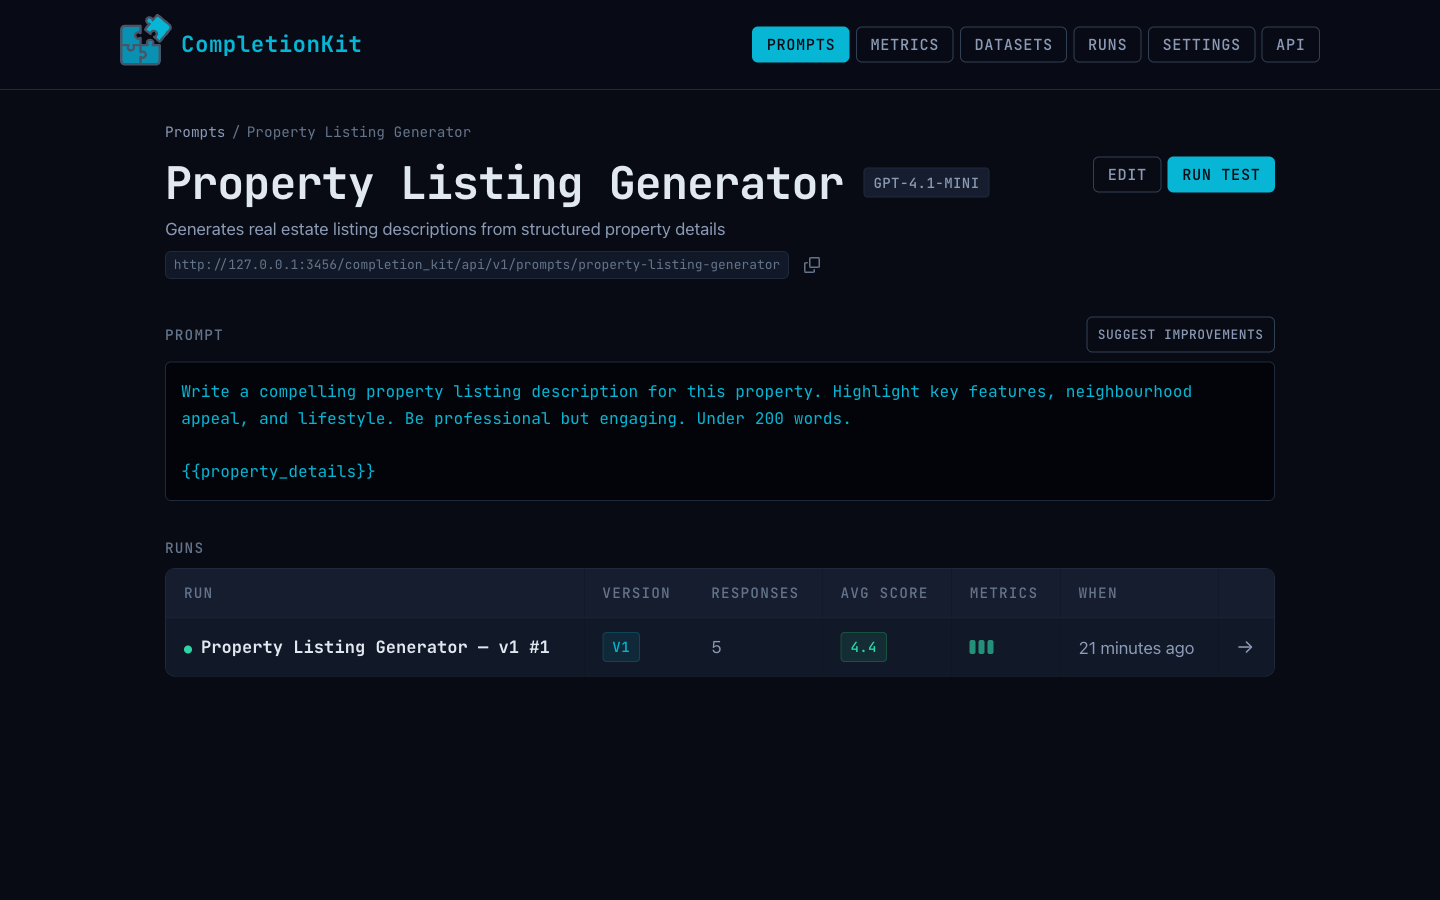
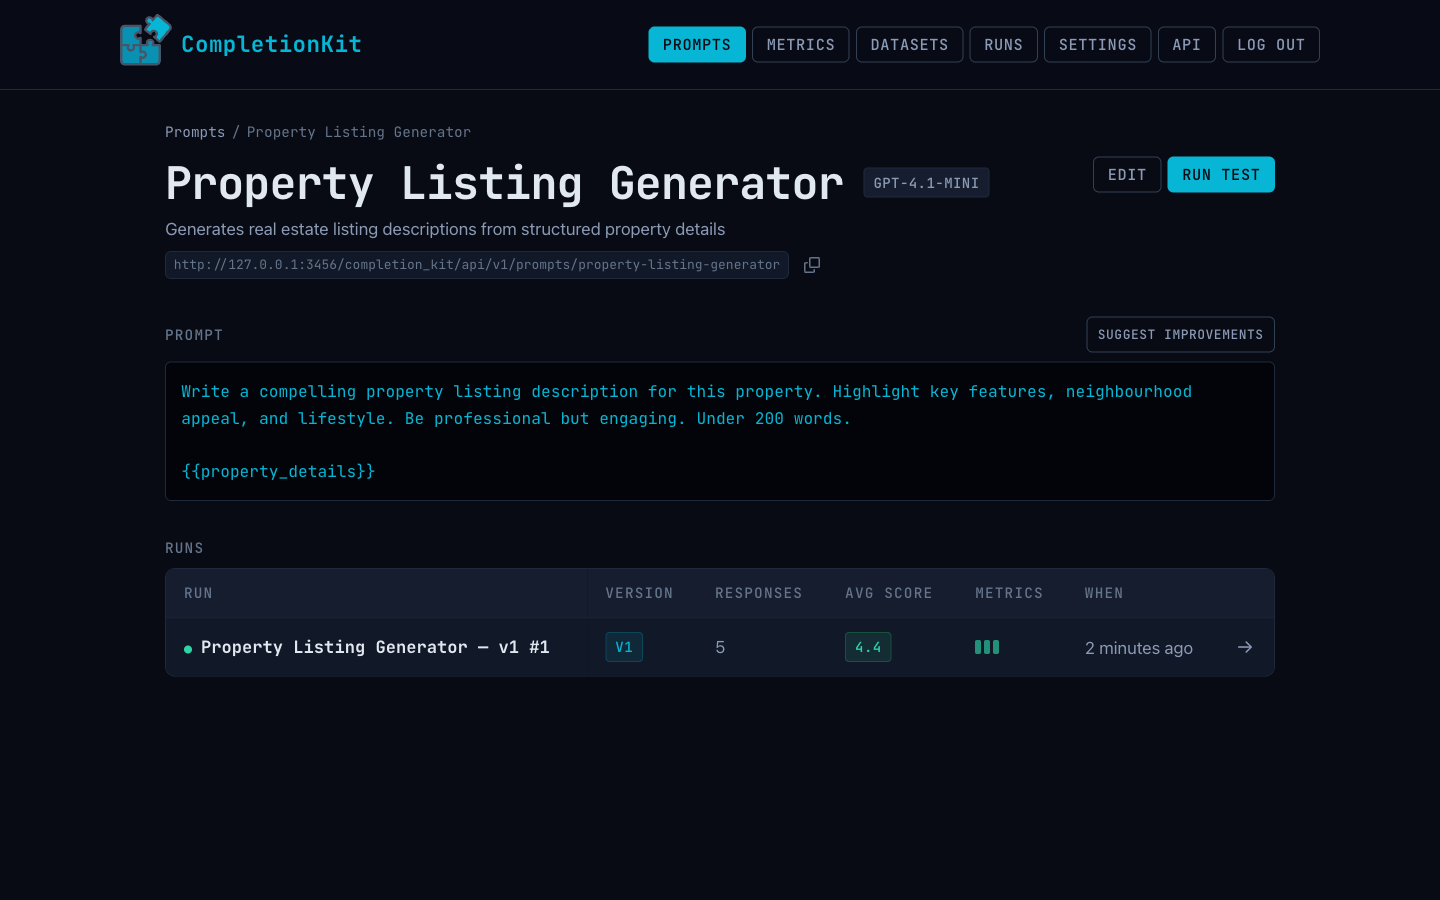
richer seed data: 3 prompts in same domain, retake all screenshots

diff --git a/standalone/db/seeds.rb b/standalone/db/seeds.rb
@@ -164,4 +164,188 @@ responses_data.each do |rd|
   end
 end
 
+conciseness = CompletionKit::Metric.find_or_create_by!(name: "Conciseness") do |m|
+  m.instruction = "Is the summary the right length? It should be exactly 2 sentences and convey the essential property information without filler."
+  m.evaluation_steps = [
+    "Count the sentences. Exactly 2 is ideal.",
+    "Check that every word earns its place. No filler, no padding.",
+    "Verify the summary would work as a search-result snippet."
+  ]
+  m.rubric_bands = [
+    { "stars" => 5, "description" => "Exactly 2 sentences. Every word earns its place. Works perfectly as a search snippet." },
+    { "stars" => 3, "description" => "Close to 2 sentences but slightly too long or includes filler words that add nothing." },
+    { "stars" => 1, "description" => "Way too long, way too short, or reads like a full listing crammed into two lines." }
+  ]
+end
+
+completeness = CompletionKit::Metric.find_or_create_by!(name: "Completeness") do |m|
+  m.instruction = "Does the summary capture what a buyer scanning search results would most want to know? Key selling point, location, and property type at minimum."
+  m.evaluation_steps = [
+    "Check for property type and bedroom count",
+    "Check for location or suburb name",
+    "Check for the single strongest selling point"
+  ]
+  m.rubric_bands = [
+    { "stars" => 5, "description" => "Covers property type, location, and the standout feature. A buyer knows immediately whether to click through." },
+    { "stars" => 3, "description" => "Covers basics but misses the hook. You know what it is but not why you'd care." },
+    { "stars" => 1, "description" => "Missing critical information. You can't tell what kind of property it is or where." }
+  ]
+end
+
+local_relevance = CompletionKit::Metric.find_or_create_by!(name: "Local Relevance") do |m|
+  m.instruction = "Does the neighbourhood description reflect the specific character of this area? It should feel like the writer has actually been there, not like a generic suburb template."
+  m.evaluation_steps = [
+    "Does it name specific streets, landmarks, or local institutions?",
+    "Could this description apply to any suburb, or is it clearly about this one?",
+    "Does it match the known character of the area?"
+  ]
+  m.rubric_bands = [
+    { "stars" => 5, "description" => "Clearly about this specific neighbourhood. Names local landmarks or captures the area's known character accurately." },
+    { "stars" => 3, "description" => "Broadly correct but could describe several similar suburbs. Generic 'great cafes and parks' territory." },
+    { "stars" => 1, "description" => "Wrong vibe entirely, or so generic it adds nothing. Could be any suburb in Australia." }
+  ]
+end
+
+engagement = CompletionKit::Metric.find_or_create_by!(name: "Engagement") do |m|
+  m.instruction = "Does the neighbourhood guide make you want to live there? It should paint a picture of the lifestyle, not just list amenities."
+  m.evaluation_steps = [
+    "After reading, can you picture a typical Saturday morning in this neighbourhood?",
+    "Does it connect amenities to lifestyle rather than just listing them?",
+    "Would a buyer feel emotionally pulled toward the area?"
+  ]
+  m.rubric_bands = [
+    { "stars" => 5, "description" => "You can picture yourself there. The writing connects place to lifestyle. Creates genuine pull." },
+    { "stars" => 3, "description" => "Pleasant but forgettable. Lists amenities without connecting them to how life actually feels there." },
+    { "stars" => 1, "description" => "Dry, clinical, or completely fails to convey any sense of place. Reads like a council report." }
+  ]
+end
+
+summary_criteria = CompletionKit::Criteria.find_or_create_by!(name: "Search Snippet Quality") do |c|
+  c.description = "Assessment criteria for property search-result summaries"
+end
+[accuracy, conciseness, completeness].each_with_index do |metric, i|
+  CompletionKit::CriteriaMembership.find_or_create_by!(criteria: summary_criteria, metric: metric) do |cm|
+    cm.position = i + 1
+  end
+end
+
+neighbourhood_criteria = CompletionKit::Criteria.find_or_create_by!(name: "Neighbourhood Guide Quality") do |c|
+  c.description = "Assessment criteria for neighbourhood lifestyle descriptions"
+end
+[accuracy, local_relevance, engagement].each_with_index do |metric, i|
+  CompletionKit::CriteriaMembership.find_or_create_by!(criteria: neighbourhood_criteria, metric: metric) do |cm|
+    cm.position = i + 1
+  end
+end
+
+summary_prompt = CompletionKit::Prompt.find_or_create_by!(name: "Property Summary") do |p|
+  p.description = "Generates a 2-sentence search-result snippet from property details"
+  p.template = "Write a 2-sentence property summary for use in search results. Include the key selling point and the property type. Be factual and concise.\n\n{{property_details}}"
+  p.llm_model = "gpt-4.1-mini"
+end
+
+summary_run = CompletionKit::Run.find_or_create_by!(name: "Property Summary — v1 #1") do |r|
+  r.prompt = summary_prompt
+  r.dataset = dataset
+  r.judge_model = "gpt-4.1-mini"
+  r.status = "completed"
+  r.progress_current = 15
+  r.progress_total = 15
+end
+
+[accuracy, conciseness, completeness].each_with_index do |metric, i|
+  CompletionKit::RunMetric.find_or_create_by!(run: summary_run, metric: metric) do |rm|
+    rm.position = i + 1
+  end
+end
+
+summary_responses = [
+  { input: csv_data.lines[1].strip.tr('"', ''),
+    text: "Renovated 3-bedroom weatherboard in Brunswick with original hardwood floors and a north-facing backyard. Walking distance to Sydney Road trams and zoned for Brunswick Secondary College.",
+    scores: { "Accuracy" => [5, "All details verifiable from the input."], "Conciseness" => [5, "Exactly 2 sentences, no filler."], "Completeness" => [5, "Property type, location, key features, and school zone covered."] } },
+  { input: csv_data.lines[2].strip.tr('"', ''),
+    text: "Level 12 ocean-view apartment in Surfers Paradise with resort-style facilities and secure parking. Currently tenanted at $650/week, 200m from the beach.",
+    scores: { "Accuracy" => [5, "All claims match the input."], "Conciseness" => [5, "Two tight sentences."], "Completeness" => [4, "Covers the essentials but doesn't mention the 87sqm size which buyers would want."] } },
+  { input: csv_data.lines[3].strip.tr('"', ''),
+    text: "Fully restored 1890s colonial homestead on 42 acres in Daylesford with five bedrooms, a guest cottage, and heritage gardens. Ninety minutes from Melbourne.",
+    scores: { "Accuracy" => [5, "Faithful to the input."], "Conciseness" => [5, "Two sentences, well-packed."], "Completeness" => [5, "Property type, era, land size, key features, and distance to Melbourne all present."] } },
+  { input: csv_data.lines[4].strip.tr('"', ''),
+    text: "Compact 1-bedroom art deco studio in Potts Point with harbour glimpses from the shared rooftop terrace. Walk to Kings Cross station, strata $900/quarter.",
+    scores: { "Accuracy" => [5, "All details match."], "Conciseness" => [5, "Two sentences."], "Completeness" => [4, "Good but 'compact' understates 38sqm. Size might be worth mentioning explicitly."] } },
+  { input: csv_data.lines[5].strip.tr('"', ''),
+    text: "Classic 4-bedroom Queenslander in Paddington with city skyline views from the rear deck. Quiet street, 3km to Brisbane CBD, near Suncorp Stadium.",
+    scores: { "Accuracy" => [5, "Matches the input."], "Conciseness" => [5, "Two sentences."], "Completeness" => [5, "Property type, style, key feature, and location context all covered."] } }
+]
+
+summary_responses.each do |rd|
+  response = summary_run.responses.find_or_create_by!(input_data: rd[:input]) do |r|
+    r.response_text = rd[:text]
+  end
+  rd[:scores].each do |metric_name, (score, feedback)|
+    metric = CompletionKit::Metric.find_by!(name: metric_name)
+    response.reviews.find_or_create_by!(metric: metric) do |review|
+      review.metric_name = metric_name
+      review.instruction = metric.instruction
+      review.status = "evaluated"
+      review.ai_score = score
+      review.ai_feedback = feedback
+    end
+  end
+end
+
+neighbourhood_prompt = CompletionKit::Prompt.find_or_create_by!(name: "Neighbourhood Guide") do |p|
+  p.description = "Generates a lifestyle paragraph about the area surrounding a property"
+  p.template = "Write a short paragraph about the neighbourhood and lifestyle around this property. Focus on what it's like to live there, not the property itself. Under 100 words.\n\n{{property_details}}"
+  p.llm_model = "claude-sonnet-4-6"
+end
+
+neighbourhood_run = CompletionKit::Run.find_or_create_by!(name: "Neighbourhood Guide — v1 #1") do |r|
+  r.prompt = neighbourhood_prompt
+  r.dataset = dataset
+  r.judge_model = "gpt-4.1-mini"
+  r.status = "completed"
+  r.progress_current = 15
+  r.progress_total = 15
+end
+
+[accuracy, local_relevance, engagement].each_with_index do |metric, i|
+  CompletionKit::RunMetric.find_or_create_by!(run: neighbourhood_run, metric: metric) do |rm|
+    rm.position = i + 1
+  end
+end
+
+neighbourhood_responses = [
+  { input: csv_data.lines[1].strip.tr('"', ''),
+    text: "Brunswick is Melbourne's inner north at its most liveable. Sydney Road is the spine of the neighbourhood: trams, Lebanese bakeries, vintage shops, and cheap pho all within a few blocks. Weekend mornings mean coffee at one of a dozen roasters, a lap of the Merri Creek trail, and groceries from the organic co-op. It's the kind of suburb where your neighbours know your dog's name and the local pub has live music on Thursdays.",
+    scores: { "Accuracy" => [5, "Sydney Road, trams, Merri Creek, inner north positioning all accurate."], "Local Relevance" => [5, "Names specific landmarks and captures Brunswick's character precisely."], "Engagement" => [5, "The dog's name detail and Thursday pub music paint a vivid, specific picture of the lifestyle."] } },
+  { input: csv_data.lines[2].strip.tr('"', ''),
+    text: "Surfers Paradise lives up to the name if you like your mornings with salt air and your evenings with options. The beach is the obvious draw, but the light-rail connects you to Broadbeach dining and Pacific Fair shopping without touching a car. The foreshore parklands are the local living room: runners, families, and tourists sharing the same stretch of green between the high-rises and the sand.",
+    scores: { "Accuracy" => [4, "Light rail and Broadbeach connection accurate. Pacific Fair is technically in Broadbeach, not Surfers, but accessible."], "Local Relevance" => [4, "Captures the Surfers vibe well but could distinguish it more from the broader Gold Coast."], "Engagement" => [4, "Good sensory detail with the salt air opener. The 'local living room' metaphor works."] } },
+  { input: csv_data.lines[3].strip.tr('"', ''),
+    text: "Daylesford is the spa country town that Melbourne escapes to. Mineral springs, galleries, and restaurants that punch well above their weight for a town of 3,000. The Saturday market at the old railway station is the social hub. Hepburn Springs is a five-minute drive. The pace is deliberately slow and the community is tight: you'll see the same faces at the general store and the bookshop.",
+    scores: { "Accuracy" => [5, "Mineral springs, market, Hepburn Springs proximity all accurate. Town character well captured."], "Local Relevance" => [5, "Deeply specific to Daylesford. The market, general store, and bookshop details could only be this town."], "Engagement" => [5, "Makes you want to move there. The 'deliberately slow' framing is perfect for the audience."] } },
+  { input: csv_data.lines[4].strip.tr('"', ''),
+    text: "Potts Point is Sydney's most walkable neighbourhood. The strip of cafes and restaurants along Macleay Street has enough range to eat somewhere different every night for a month. The Botanic Gardens and the harbour foreshore are a ten-minute walk. Kings Cross station puts the CBD five minutes away. It's dense and urban but with enough old fig trees and art deco architecture to feel like a village inside the city.",
+    scores: { "Accuracy" => [5, "Macleay Street, Kings Cross station, Botanic Gardens proximity all correct."], "Local Relevance" => [5, "Captures Potts Point specifically, not just generic Sydney. The Macleay Street and fig trees details are spot on."], "Engagement" => [4, "Solid sense of place. The 'village inside the city' line lands well but could push the lifestyle picture harder."] } },
+  { input: csv_data.lines[5].strip.tr('"', ''),
+    text: "Paddington is where Brisbane's Queenslander charm meets inner-city convenience. Given Road and Latrobe Terrace have the cafes and weekend brunch crowds, while Suncorp Stadium brings the energy on game nights. Caxton Street is the pub precinct, but the quieter residential streets behind it are the real appeal: wide verandahs, mango trees, and a pace that feels a decade behind the CBD three kilometres away.",
+    scores: { "Accuracy" => [5, "Given Road, Latrobe Terrace, Suncorp, Caxton Street all correctly placed. CBD distance matches."], "Local Relevance" => [5, "Deeply specific to Paddington, Brisbane. The mango trees and wide verandahs are quintessential details."], "Engagement" => [5, "The contrast between game-night energy and quiet residential streets is exactly how locals describe Paddington."] } }
+]
+
+neighbourhood_responses.each do |rd|
+  response = neighbourhood_run.responses.find_or_create_by!(input_data: rd[:input]) do |r|
+    r.response_text = rd[:text]
+  end
+  rd[:scores].each do |metric_name, (score, feedback)|
+    metric = CompletionKit::Metric.find_by!(name: metric_name)
+    response.reviews.find_or_create_by!(metric: metric) do |review|
+      review.metric_name = metric_name
+      review.instruction = metric.instruction
+      review.status = "evaluated"
+      review.ai_score = score
+      review.ai_feedback = feedback
+    end
+  end
+end
+
 puts "Seeded: #{CompletionKit::Model.count} models, #{CompletionKit::Prompt.count} prompts, #{CompletionKit::Dataset.count} datasets, #{CompletionKit::Metric.count} metrics, #{CompletionKit::Run.count} runs, #{CompletionKit::Response.count} responses, #{CompletionKit::Review.count} reviews"
